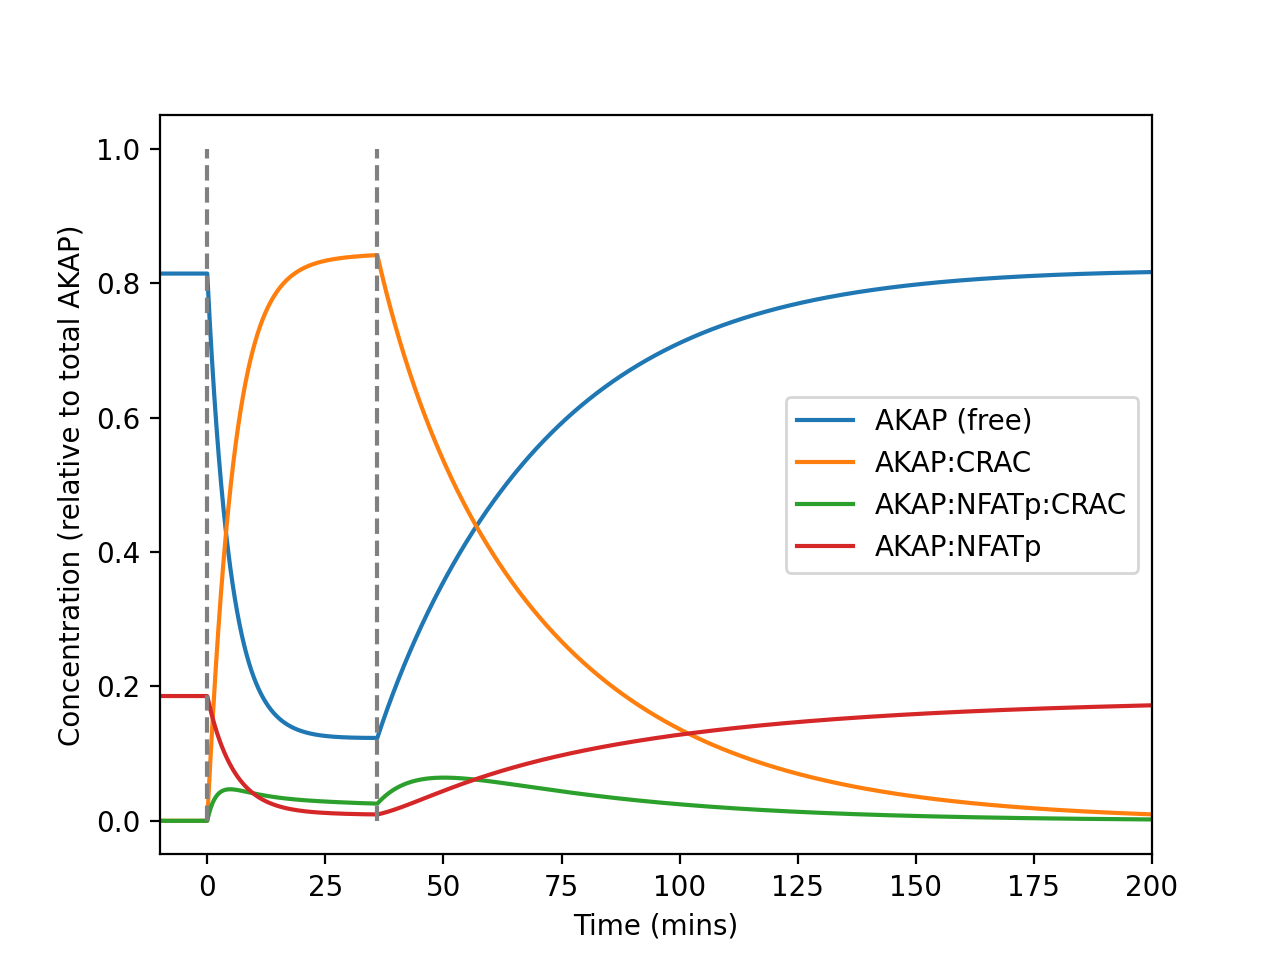
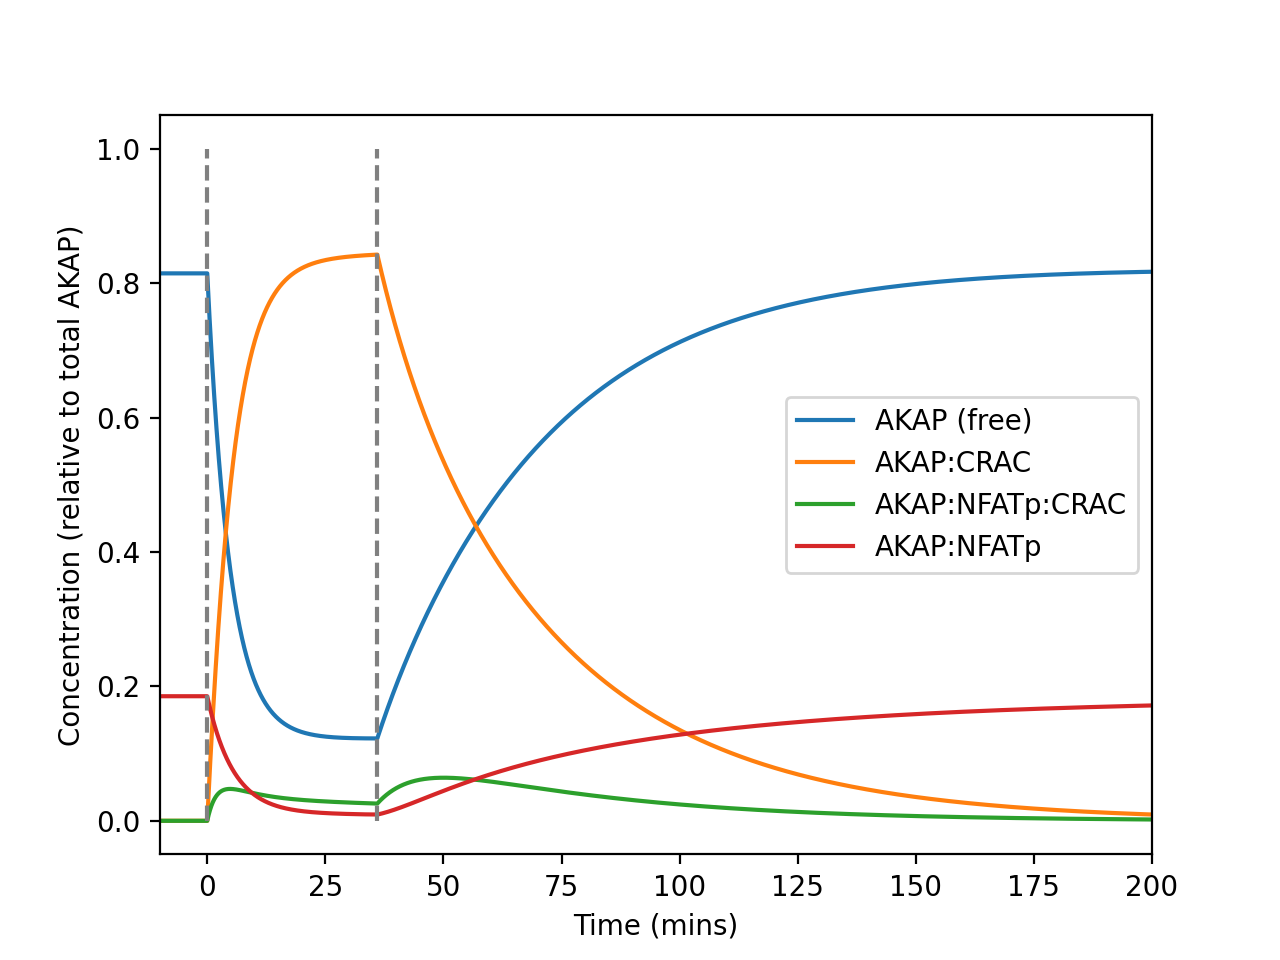
Tweak to aim for nuclear proportion 80% at 20 minutes

diff --git a/plot_examples_with_varying_nuclear_export.py b/plot_examples_with_varying_nuclear_export.py
@@ -1,32 +1,12 @@
-from operator import delitem
 import numpy as np
 import matplotlib.pyplot as plt
-from scipy.integrate import odeint
 from model import NfatModel
-from SpecialLogLikelihood import SpecialLogLikelihood
-# Define the right-hand side of a system of ODEs
-
 
 times = np.linspace(-200, 360, 56001)
-# parameters
-# p = [1, 1.2,
-#      0.1195,
-#      0.1003,
-#      0.1089,
-#      1.1357,
-#      0.0453,
-#      0]
-
-
-# Parameters emphasising fit to time series data.
-p = np.array([1, 1.2, 0.17743636, 0.0495394,  0.06270813,
-             0.01552823, 0.34830096, 0.84645488, 0.1])
-
-p = np.array([1, 1.2, 0.17743636, 0.0495394,  0.06270813,
-             0.01552823, 0.34830096, 0.84645488, 0.5])
 
 baseline_params = np.array(
-    [1, 1.2, 0.17306501, 0.02632026, 0.07175625, 0.01612891, 0.37993729, 0.1])
+    [1, 1.2, 0.17527934, 0.02647466, 0.07168039,
+     0.01607605, 0.37648643, 0.1])
 
 # Parameters emphasising nuclear accumulation getting near 70%.
 p = np.concatenate([baseline_params, [0]])  # NO NUCLEAR EXPORT

diff --git a/run_example_sim.py b/run_example_sim.py
@@ -24,16 +24,15 @@ p = np.array([1, 1.2, 1.16775701e-01, 1.07196238e-09, 1.24900543e-01, 1.54407345
 
 # Parameters emphasising nuclear accumulation getting near 70%.
 # NO NUCLEAR EXPORT
-p = np.array([1, 1.2, 0.17306501, 0.02632026,
-             0.07175625, 0.01612891, 0.37993729, 0.1, 0])
+p = np.array([1, 1.2, 0.17527934, 0.02647466,
+             0.07168039, 0.01607605, 0.37648643, 0.1, 0])
 
 
-p = np.array([1, 1.2, 0.17306501, 0.02632026,
-             0.07175625, 0.01612891, 0.37993729, 0.1, 0.01])  # SLOW NUCLEAR EXPORT
+p = np.array([1, 1.2, 0.17527934, 0.02647466, 0.07168039,
+             0.01607605, 0.37648643, 0.1, 0.01])  # SLOW NUCLEAR EXPORT
 
 
-# p = np.array([1, 1.2, 0.17306501, 0.02632026,
-# 0.07175625, 0.01612891, 0.37993729, 0.1, 0.1])  # IMPORT/EXPORT at same rate (fast)
+# p = np.array([1, 1.2, 0.17527934, 0.02647466, 0.07168039, 0.01607605, 0.37648643, 0.1, 0.1])  # IMPORT/EXPORT at same rate (fast)
 
 
 model = NfatModel()

diff --git a/SpecialLogLikelihood.py b/SpecialLogLikelihood.py
@@ -66,8 +66,10 @@ class SpecialLogLikelihood(pints.LogPDF):
         # Weight on fitting this (smaller = more weight)
         nuc_prop_sigma = 1.0
         nuclear_proportion = nn/p[1]
+        min_20_time_index = np.where(np.abs(times-20) < 1e-12)
+        nuclear_proportion_time_20 = nuclear_proportion[min_20_time_index[0]][0]
         log_likelihood = log_likelihood - 0.5*np.log(2*np.pi*nuc_prop_sigma**2)-(
-            1.0/(2.0*nuc_prop_sigma**2))*(nuclear_proportion[-1] - 0.7)**2
+            1.0/(2.0*nuc_prop_sigma**2))*(nuclear_proportion_time_20 - 0.80)**2
 
         # std_of_timecourse_data = len(
         #    akap_nfatp_times)*(akap_nfatp_sems[i]*akap_nfatp_sems[i])

diff --git a/optimisation.py b/optimisation.py
@@ -12,8 +12,8 @@ log_like = SpecialLogLikelihood()
 boundaries = pints.RectangularBoundaries(
     [1e-9, 1e-9, 1e-9, 1e-9, 1e-9], [2, 2, 2, 2, 2])
 
-p_guess = np.array([1.16458770e-01, 5.09607342e-04,
-                   1.32400276e-01, 1.70008543e-02, 1.00250977e+00])
+p_guess = np.array([0.17306501, 0.02632026,
+                    0.07175625, 0.01612891, 0.37993729])
 
 print("Initial guess log likelihood = ", log_like(p_guess))
 
